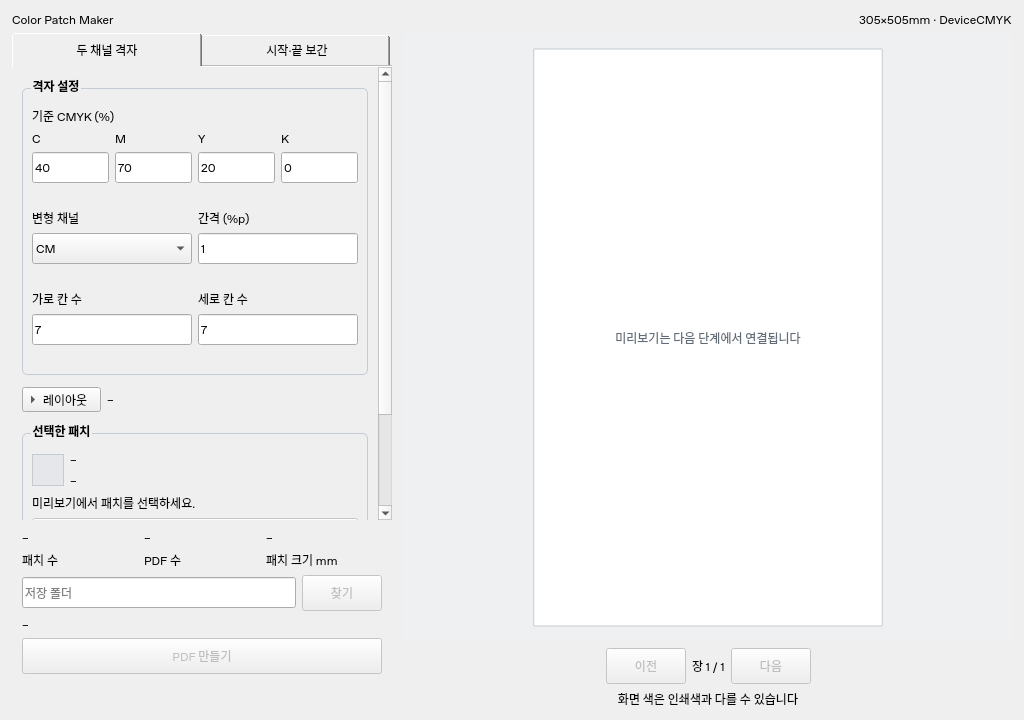
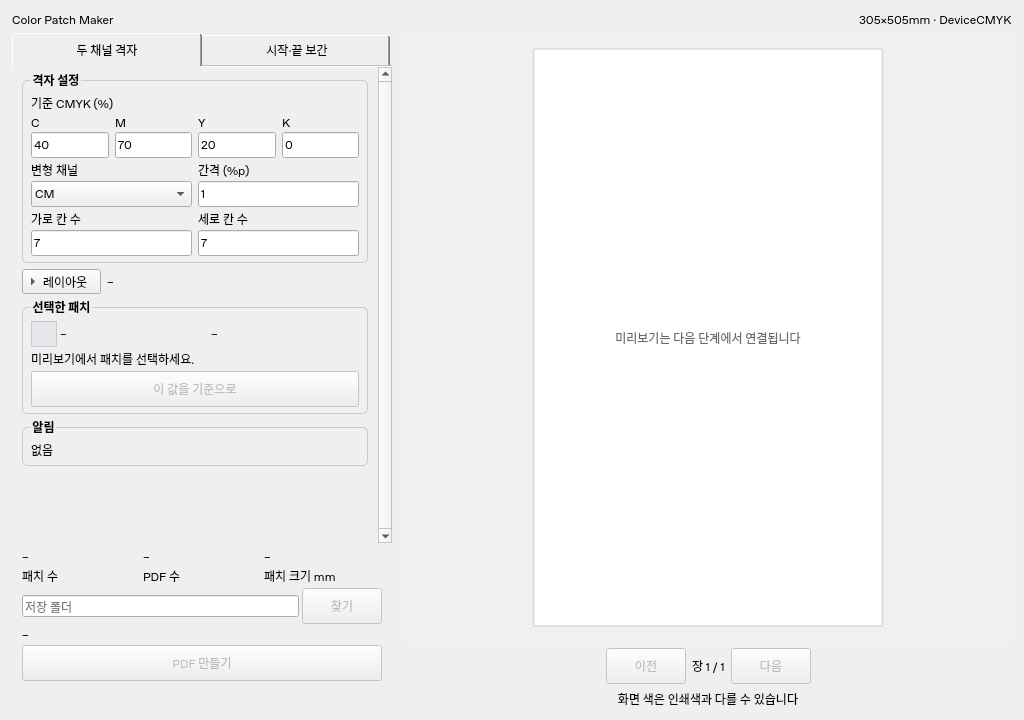
Keep default GUI warnings visible at minimum window size

diff --git a/tests/test_gui.py b/tests/test_gui.py
@@ -36,7 +36,7 @@ def test_window_and_named_widgets(window):
         assert field is not None and field.text() == value
         assert field.validator() is None
         assert window.findChild(QLabel,name+'_error').text() == ''
-    for name in ['mode_tabs','grid_panel','ramp_panel','grid_channels','layout_toggle','layout_fields','layout_summary','selected_swatch','selected_id','selected_cmyk','selection_hint','warning_list','summary_patch_count','summary_pdf_count','summary_patch_size','output_folder','filename_preview','output_status','paper_placeholder','page_indicator','screen_color_note']:
+    for name in ['paper_info','mode_tabs','grid_panel','ramp_panel','grid_channels','layout_toggle','layout_fields','layout_summary','selected_swatch','selected_id','selected_cmyk','selection_hint','warning_list','summary_patch_count','summary_pdf_count','summary_patch_size','output_folder','filename_preview','output_status','paper_placeholder','page_indicator','screen_color_note']:
         assert window.findChild(QWidget,name) is not None, name
     for name in ['make_pdf_button','browse_button','use_as_base_button','use_as_start_button','use_as_end_button','previous_page_button','next_page_button']:
         assert not window.findChild(QPushButton,name).isEnabled()
@@ -71,7 +71,9 @@ def test_geometry_and_fixed_regions(window,app,size,mode):
     assert window.preview.paper.rect().contains(paper.toAlignedRect())
     footer=window.findChild(QWidget,'output_footer')
     before=(s.tabs.mapTo(window,s.tabs.rect().topLeft()),footer.mapTo(window,footer.rect().topLeft()))
-    bar=s.scroll.verticalScrollBar();assert bar.maximum()>0
+    bar=s.scroll.verticalScrollBar()
+    if size == (1024,720):
+        assert bar.maximum()>0
     bar.setValue(bar.maximum());app.processEvents()
     assert before==(s.tabs.mapTo(window,s.tabs.rect().topLeft()),footer.mapTo(window,footer.rect().topLeft()))
     assert s.scroll.horizontalScrollBar().maximum()==0
@@ -110,3 +112,40 @@ runpy.run_module('color_patch_maker.gui',run_name='__main__')
 '''
     result=subprocess.run([sys.executable,'-c',script],capture_output=True,text=True,timeout=15)
     assert result.returncode==0,result.stderr
+
+
+@pytest.mark.parametrize('mode', [0, 1])
+def test_collapsed_warnings_visible_and_error_growth(window, app, mode):
+    window.resize(1024, 720)
+    s = window.sidebar
+    s.tabs.setCurrentIndex(mode)
+    app.processEvents(); QTest.qWait(30)
+    viewport = s.scroll.viewport()
+    warnings = window.findChild(QWidget, 'warnings_panel')
+    def visible_rect(widget):
+        return widget.rect().translated(widget.mapTo(viewport, widget.rect().topLeft()))
+    assert s.scroll.verticalScrollBar().value() == 0
+    assert viewport.rect().contains(visible_rect(warnings))
+    footer = window.findChild(QWidget, 'output_footer')
+    fixed = (s.tabs.geometry(), footer.geometry(), s.scroll.geometry())
+    prefix = 'grid_cmyk' if mode == 0 else 'ramp_start'
+    errors = [window.findChild(QLabel, f'{prefix}_{c}_error') for c in 'cmyk']
+    fields = [window.findChild(QWidget, f'{prefix}_{c}') for c in 'cmyk']
+    positions = [field.geometry() for field in fields]
+    for error in errors:
+        error.setText('0~100 정수를 입력하세요.')
+    app.processEvents(); QTest.qWait(30)
+    assert all(error.isVisible() for error in errors)
+    assert fixed == (s.tabs.geometry(), footer.geometry(), s.scroll.geometry())
+    for before, field in zip(positions, fields):
+        after = field.geometry()
+        assert before.size() == after.size()
+        assert abs(before.x()-after.x()) <= 1
+        assert abs(before.y()-after.y()) <= 1  # Qt distributes spare pixels between rows.
+    # Four side-by-side errors grow a single row, rather than four blank rows.
+    assert s.scroll.verticalScrollBar().maximum() < 70
+    for error in errors:
+        error.setText('')
+    app.processEvents(); QTest.qWait(30)
+    assert all(not error.isVisible() for error in errors)
+    assert viewport.rect().contains(visible_rect(warnings))

diff --git a/color_patch_maker/gui/sidebar.py b/color_patch_maker/gui/sidebar.py
@@ -24,6 +24,20 @@ def button(text, name):
     return result
 
 
+class ErrorLabel(QLabel):
+    """Reserve space only for an actual message; keep fixed regions stable."""
+    def __init__(self, name):
+        super().__init__('')
+        self.setObjectName(name)
+        self.setWordWrap(True)
+        self.setStyleSheet('color: #b3261e;')
+        self.hide()
+
+    def setText(self, text):
+        super().setText(text)
+        self.setVisible(bool(text))
+
+
 class Sidebar(QWidget):
     def __init__(self):
         super().__init__()
@@ -43,12 +57,13 @@ class Sidebar(QWidget):
 
         self.scroll = named(QScrollArea(), 'settings_scroll')
         self.scroll.setWidgetResizable(True)
+        self.scroll.setVerticalScrollBarPolicy(Qt.ScrollBarPolicy.ScrollBarAlwaysOn)
         self.scroll.setHorizontalScrollBarPolicy(Qt.ScrollBarPolicy.ScrollBarAlwaysOff)
         self.scroll.setFocusPolicy(Qt.FocusPolicy.NoFocus)
         body = named(QWidget(), 'settings_body')
         content = QVBoxLayout(body)
-        content.setContentsMargins(10, 12, 10, 12)
-        content.setSpacing(12)
+        content.setContentsMargins(10, 6, 10, 6)
+        content.setSpacing(6)
         self.grid_panel, grid = self.group('격자 설정', 'grid_panel')
         self.cmyk(grid, '기준 CMYK (%)', 'grid_cmyk', (40, 70, 20, 0))
         channel = named(QComboBox(), 'grid_channels')
@@ -90,10 +105,10 @@ class Sidebar(QWidget):
         picked, picked_layout = self.group('선택한 패치', 'selected_panel')
         selected_row = QHBoxLayout()
         chip = label('', 'selected_swatch')
-        chip.setFixedSize(32, 32)
+        chip.setFixedSize(26, 26)
         chip.setStyleSheet('background: #e5e7eb; border: 1px solid #c5cbd2;')
         selected_row.addWidget(chip)
-        text = QVBoxLayout()
+        text = QHBoxLayout()
         text.addWidget(label('–', 'selected_id'))
         text.addWidget(label('–', 'selected_cmyk'))
         selected_row.addLayout(text, 1)
@@ -117,7 +132,8 @@ class Sidebar(QWidget):
 
         footer = named(QWidget(), 'output_footer')
         foot = QVBoxLayout(footer)
-        foot.setContentsMargins(10, 10, 10, 10)
+        foot.setContentsMargins(10, 6, 10, 6)
+        foot.setSpacing(3)
         stats = QHBoxLayout()
         for title, name in [('패치 수', 'summary_patch_count'), ('PDF 수', 'summary_pdf_count'), ('패치 크기 mm', 'summary_patch_size')]:
             box = QVBoxLayout()
@@ -146,22 +162,26 @@ class Sidebar(QWidget):
     def group(title, name):
         group = named(QGroupBox(title), name)
         group.setSizePolicy(QSizePolicy.Policy.Preferred, QSizePolicy.Policy.Maximum)
-        return group, QVBoxLayout(group)
+        box = QVBoxLayout(group)
+        box.setContentsMargins(8, 8, 8, 6)
+        box.setSpacing(3)
+        return group, box
 
     def row(self, parent, specs):
         row = QHBoxLayout()
+        row.setSpacing(6)
         for title, name, value in specs:
             field = QVBoxLayout()
+            field.setSpacing(2)
             widget = named(QLineEdit(value), name) if isinstance(value, str) else value
             widget.setMinimumWidth(0)
+            widget.setFixedHeight(26)
             widget.setAccessibleName(title)
             caption = QLabel(title)
             caption.setBuddy(widget)
             field.addWidget(caption)
             field.addWidget(widget)
-            error = label('', name + '_error')
-            error.setMinimumHeight(14)
-            error.setStyleSheet('color: #b3261e;')
+            error = ErrorLabel(name + '_error')
             field.addWidget(error)
             row.addLayout(field, 1)
             self.focus_widgets.append(widget)

diff --git a/color_patch_maker/gui/window.py b/color_patch_maker/gui/window.py
@@ -1,6 +1,6 @@
 """Main window composition; no calculation or output connections."""
 from PySide6.QtWidgets import QMainWindow, QWidget, QVBoxLayout, QHBoxLayout, QLabel
-from .sidebar import Sidebar
+from .sidebar import Sidebar, named
 from .preview import Preview
 
 
@@ -17,7 +17,7 @@ class MainWindow(QMainWindow):
         header = QHBoxLayout()
         header.addWidget(QLabel('Color Patch Maker'))
         header.addStretch()
-        header.addWidget(QLabel('305×505mm · DeviceCMYK'))
+        header.addWidget(named(QLabel('305×505mm · DeviceCMYK'), 'paper_info'))
         box.addLayout(header)
         columns = QHBoxLayout()
         columns.setSpacing(12)
@@ -31,9 +31,8 @@ class MainWindow(QMainWindow):
             QWidget.setTabOrder(before, after)
         self.setStyleSheet('''
             QWidget { font-size: 12px; }
-            QLineEdit, QComboBox { min-height: 25px; }
             QGroupBox { font-weight: bold; border: 1px solid #c5cbd2;
-                        border-radius: 5px; margin-top: 9px; padding-top: 9px; }
+                        border-radius: 5px; margin-top: 7px; padding-top: 5px; }
             QGroupBox::title { subcontrol-origin: margin; left: 9px; }
             QTabBar::tab { padding: 10px 18px; }
             QScrollArea { border: none; }

diff --git a/docs/PROGRESS.md b/docs/PROGRESS.md
@@ -55,8 +55,8 @@
 |---|---|---|---|
 | 2026-11-09 | 설계 문서·화면 시안 작성 | 코드 없음 | 1단계 엔진·CLI |
 | 2026-11-09 | 1단계 엔진·CLI, 의존성 고정, 콘솔 빌드 | Linux x86_64, Python 3.12.14: pytest 30개 통과. PyInstaller 단일 실행 파일로 grid/ramp 생성 및 verify 통과 | 2단계 GUI |
-
 | 2026-11-09 | GUI 레이아웃·위젯 배치 | Linux / Python 3.12.14 / PySide6 6.8.3: 전체 331개 통과(기존 323 + GUI 8), 캡처 8장 | 다음 PR에서 엔진 연결 |
+| 2026-11-09 | PR #2 리뷰 반영: 기본 화면 압축·용지 정보 이름·이력 표 | 전체 333개 통과, 최종 헤더 수정 후 GUI 10개 재통과, 캡처 8장 갱신 | 엔진 연결 |
 
 ### 1단계 검증 범위와 한계
 
@@ -89,3 +89,12 @@
 - Qt 자체 QTest와 pytest를 사용해 추가 테스트 의존성 없이 탭·접힘·Tab 이동·고정 영역·비활성 버튼·진입점·engine 미수입을 확인했다. PySide6 및 전이 패키지 6.8.3을 고정했다.
 - 화면 배치 관련 설계 제안의 변경은 없다. GUI 전체는 미완료이며 Windows 확인·GUI 실행 파일 빌드는 수행하지 않았다.
 - 다음 PR: 입력 검증 및 오류, 엔진 레이아웃 미리보기, 요약·파일명, 선택값 채우기, 폴더 선택·페이지 이동·PDF 작업 연결.
+
+### PR #2 리뷰 반영
+
+- 빈 오류 라벨은 숨기고 메시지가 있을 때만 높이를 사용한다. 본문·그룹·하단 간격을 줄여 1024×720에서 두 탭 모두 접힌 기본 상태의 알림 영역 전체가 보인다.
+- 스크롤바 폭을 항상 확보해 오류 표시로 입력칸 너비가 바뀌지 않게 했다. 오류 테스트는 네 CMYK 메시지를 동시에 표시·제거한다. 고정 탭·하단·스크롤 영역 위치와 크기는 불변이며 입력칸 크기는 유지되고 위치 변화는 Qt 여분 픽셀 배분에 따른 1px 이내다.
+- 용지 정보에 `paper_info` 이름을 추가하고 이력 표의 빈 줄을 제거했다.
+- Linux / Python 3.12.14 / PySide6 6.8.3: `QT_QPA_PLATFORM=offscreen .venv/bin/python -m pytest -q` 333개 통과. 최종 헤더의 줄바꿈 방지 수정 후 `tests/test_gui.py` 10개 재통과. 실패·건너뜀 없음.
+- 초기 회귀 검사에서 보간 알림 가림과 오류 표시 시 레이아웃 변화를 발견해 수정 후 재검사했다. 큰 창에서 펼친 내용이 모두 들어가는 경우 스크롤이 필요 없다는 점을 기존 테스트에 반영했다.
+- `scripts/capture_gui.py`로 PNG 8장을 갱신하고 두 탭의 1024×720 기본 화면을 확인했다. `git diff --check` 통과.
